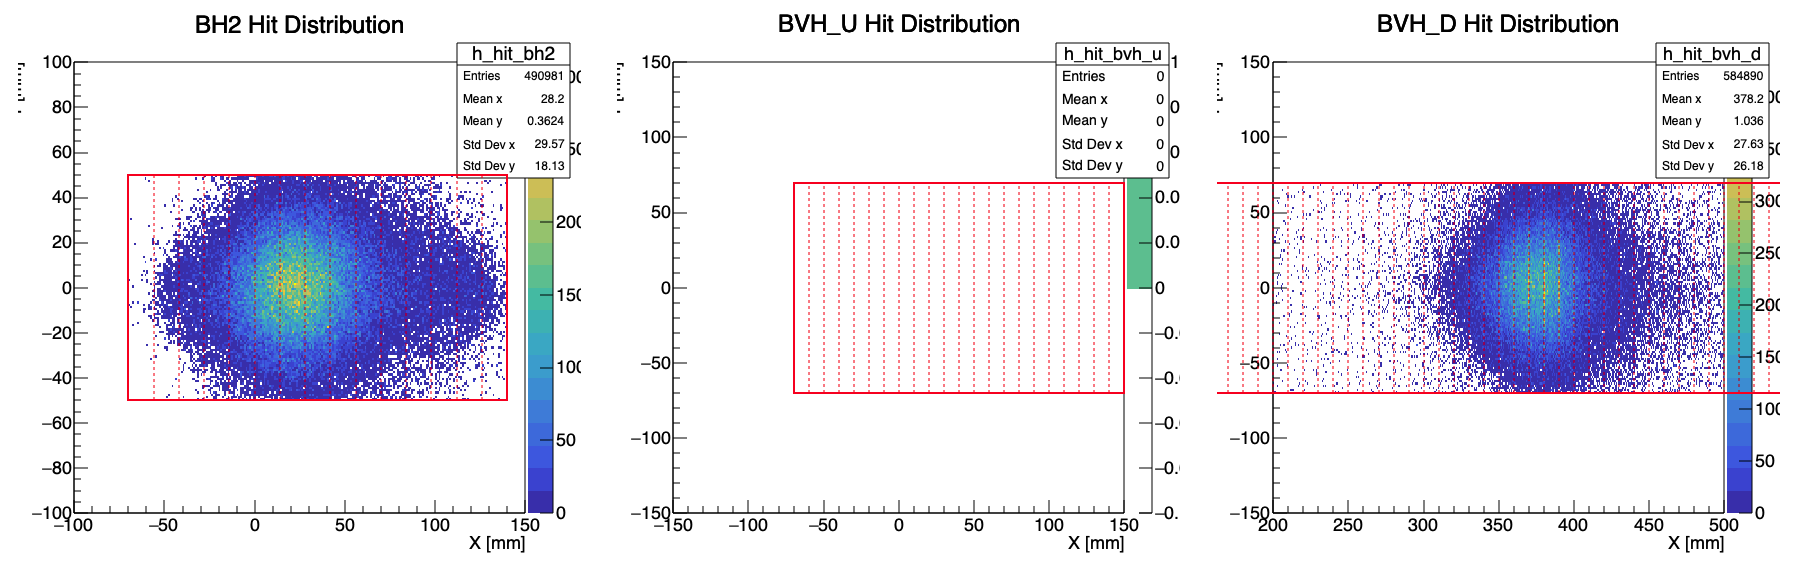
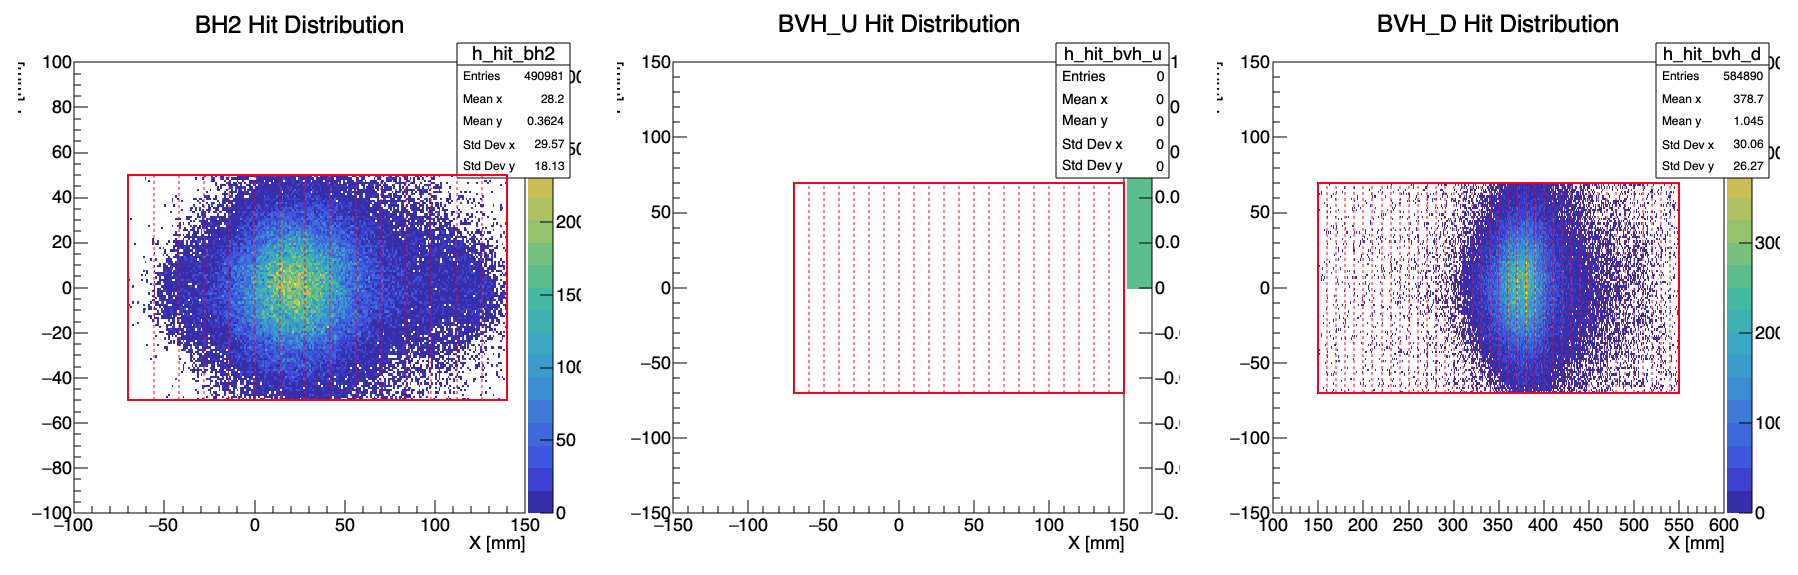
bvh_d 40

diff --git a/root/view_detectors_BVH.C b/root/view_detectors_BVH.C
@@ -68,7 +68,7 @@ void view_detectors_BVH() {
   // 히스토그램 (BVH_D X범위는 중심 350 부근으로 잡아 보기 좋게)
   TH2D *h_hit_bh2   = new TH2D("h_hit_bh2",   "BH2 Hit Distribution;X [mm];Y [mm]", 250, -100, 150, 200, -100, 100);
   TH2D *h_hit_bvh_u = new TH2D("h_hit_bvh_u", "BVH_U Hit Distribution;X [mm];Y [mm]", 300, -150, 150, 200, -150, 150);
-  TH2D *h_hit_bvh_d = new TH2D("h_hit_bvh_d", "BVH_D Hit Distribution;X [mm];Y [mm]", 400, 200, 500, 200, -150, 150);
+  TH2D *h_hit_bvh_d = new TH2D("h_hit_bvh_d", "BVH_D Hit Distribution;X [mm];Y [mm]", 500, 100, 600, 200, -150, 150);
 
   const Long64_t n = tree->GetEntries();
   for (Long64_t i=0;i<n;++i){
